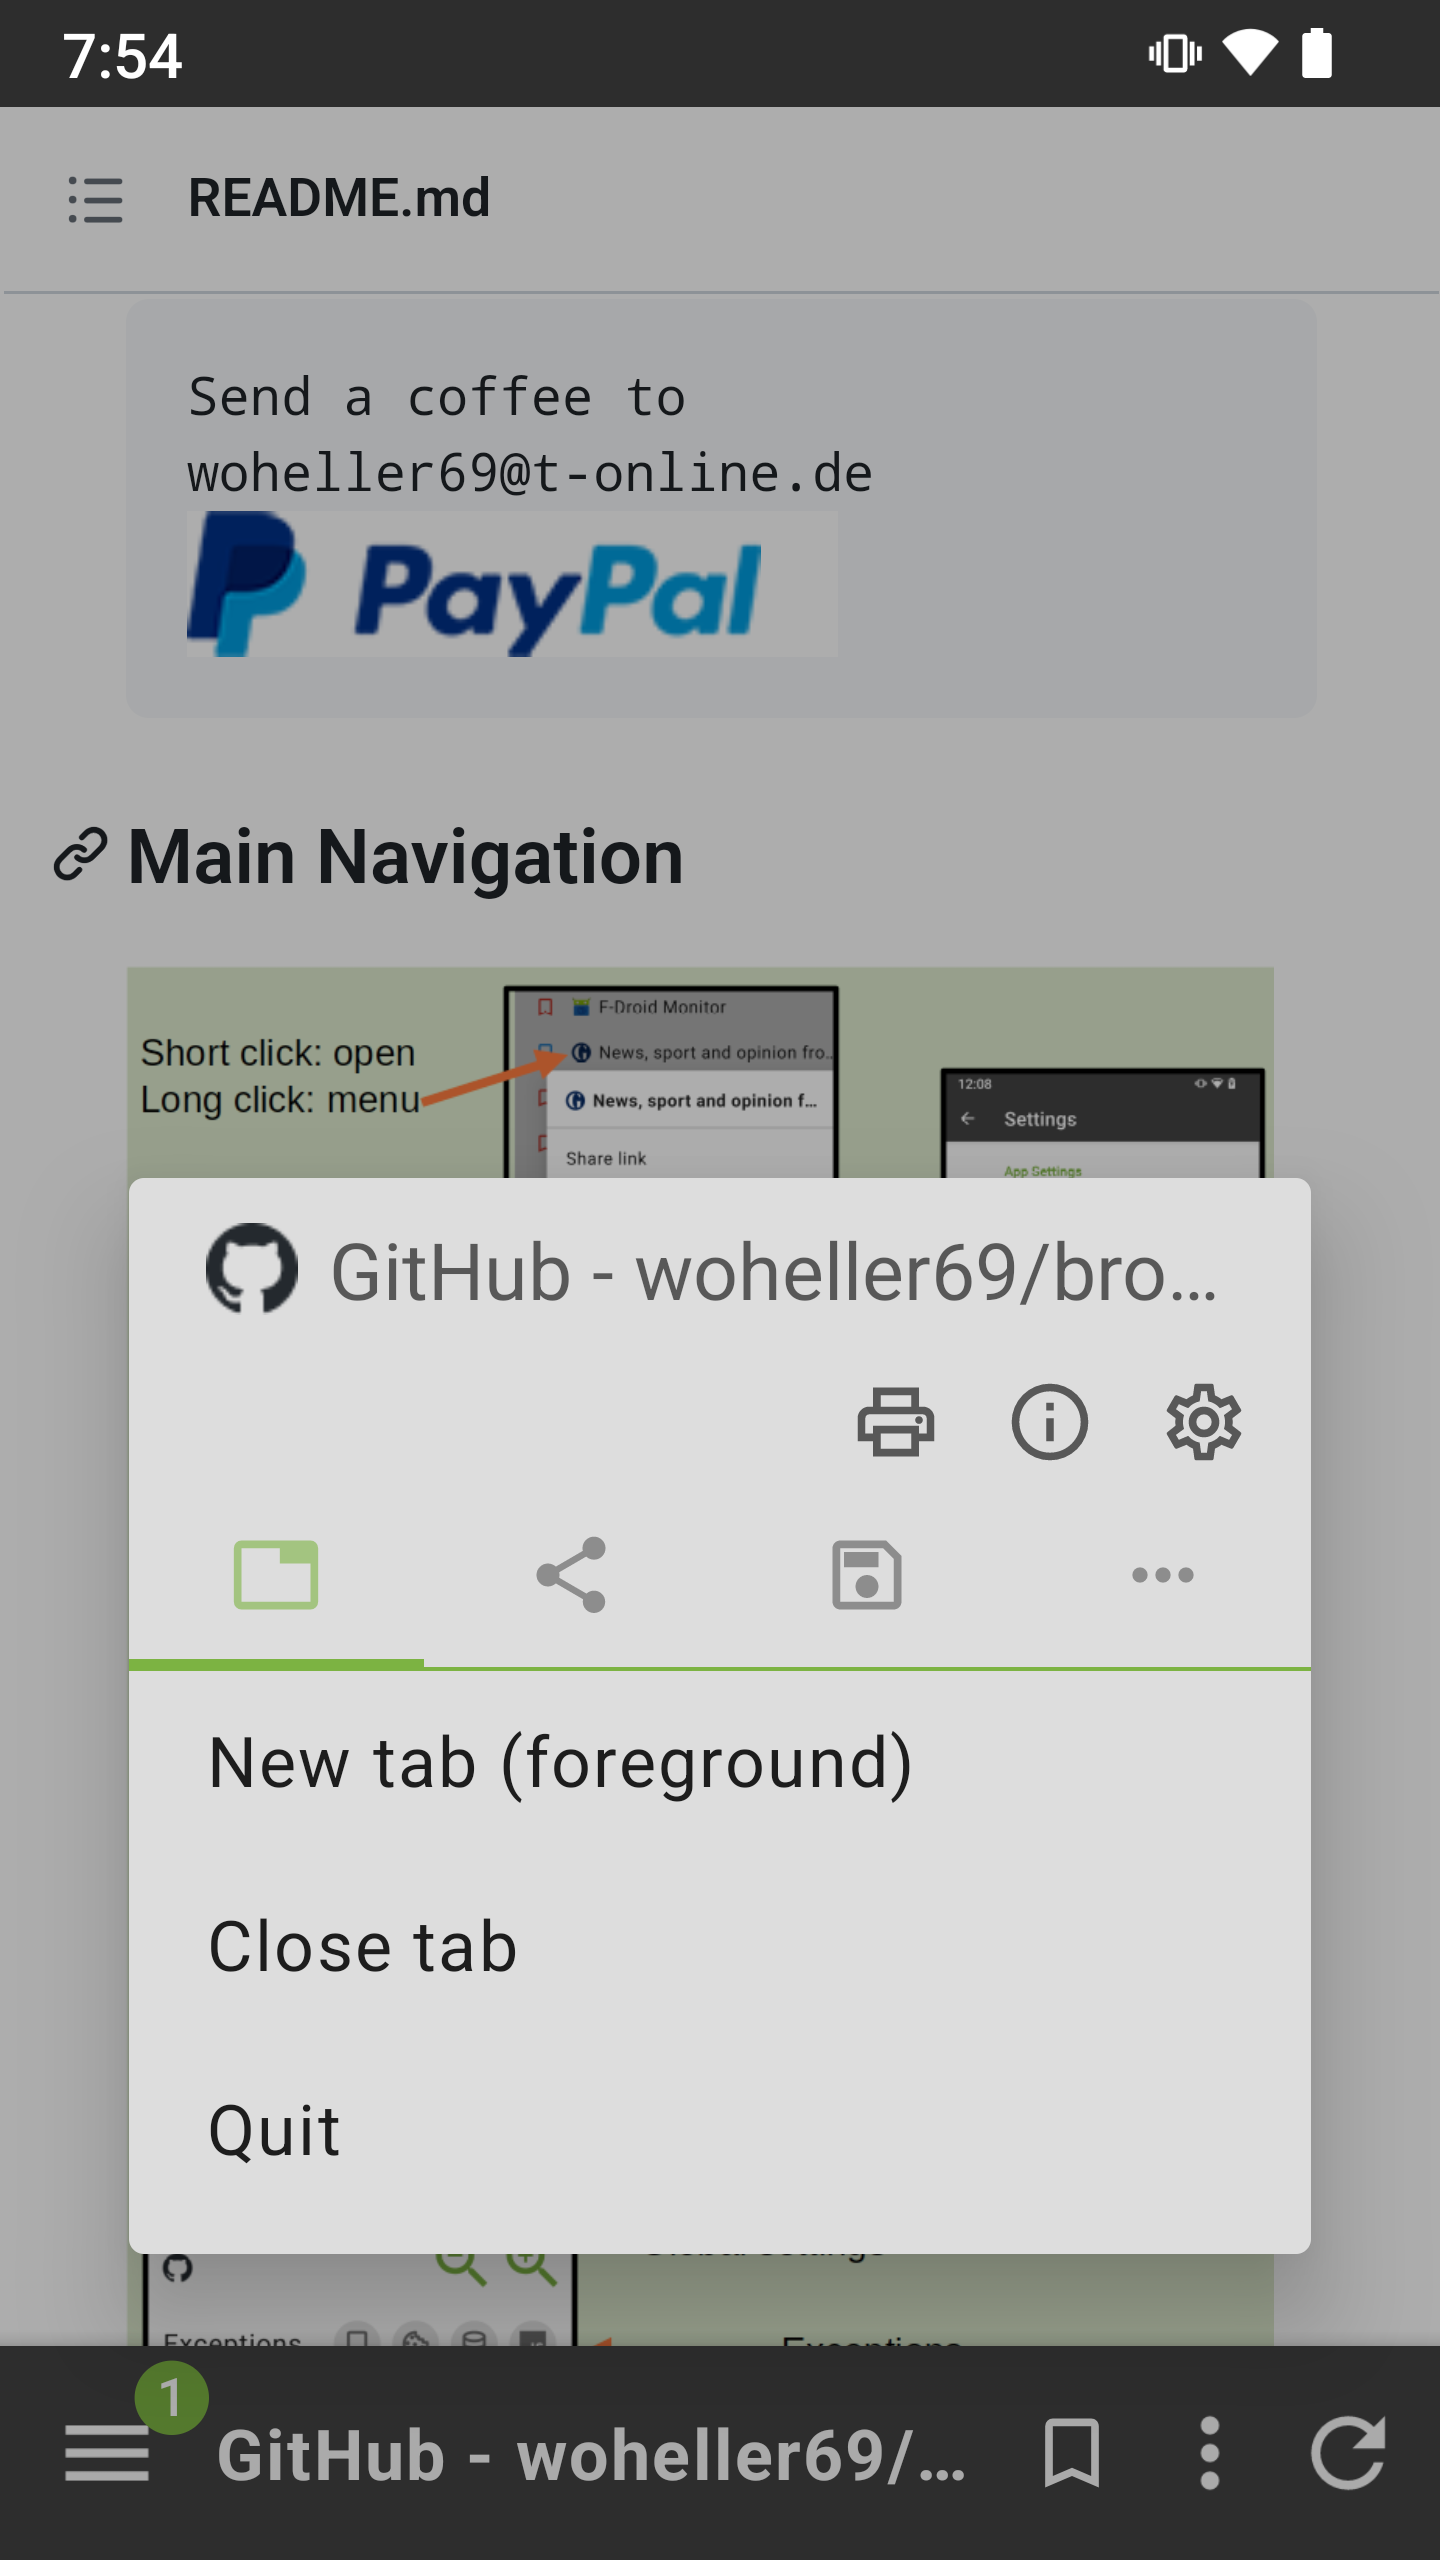
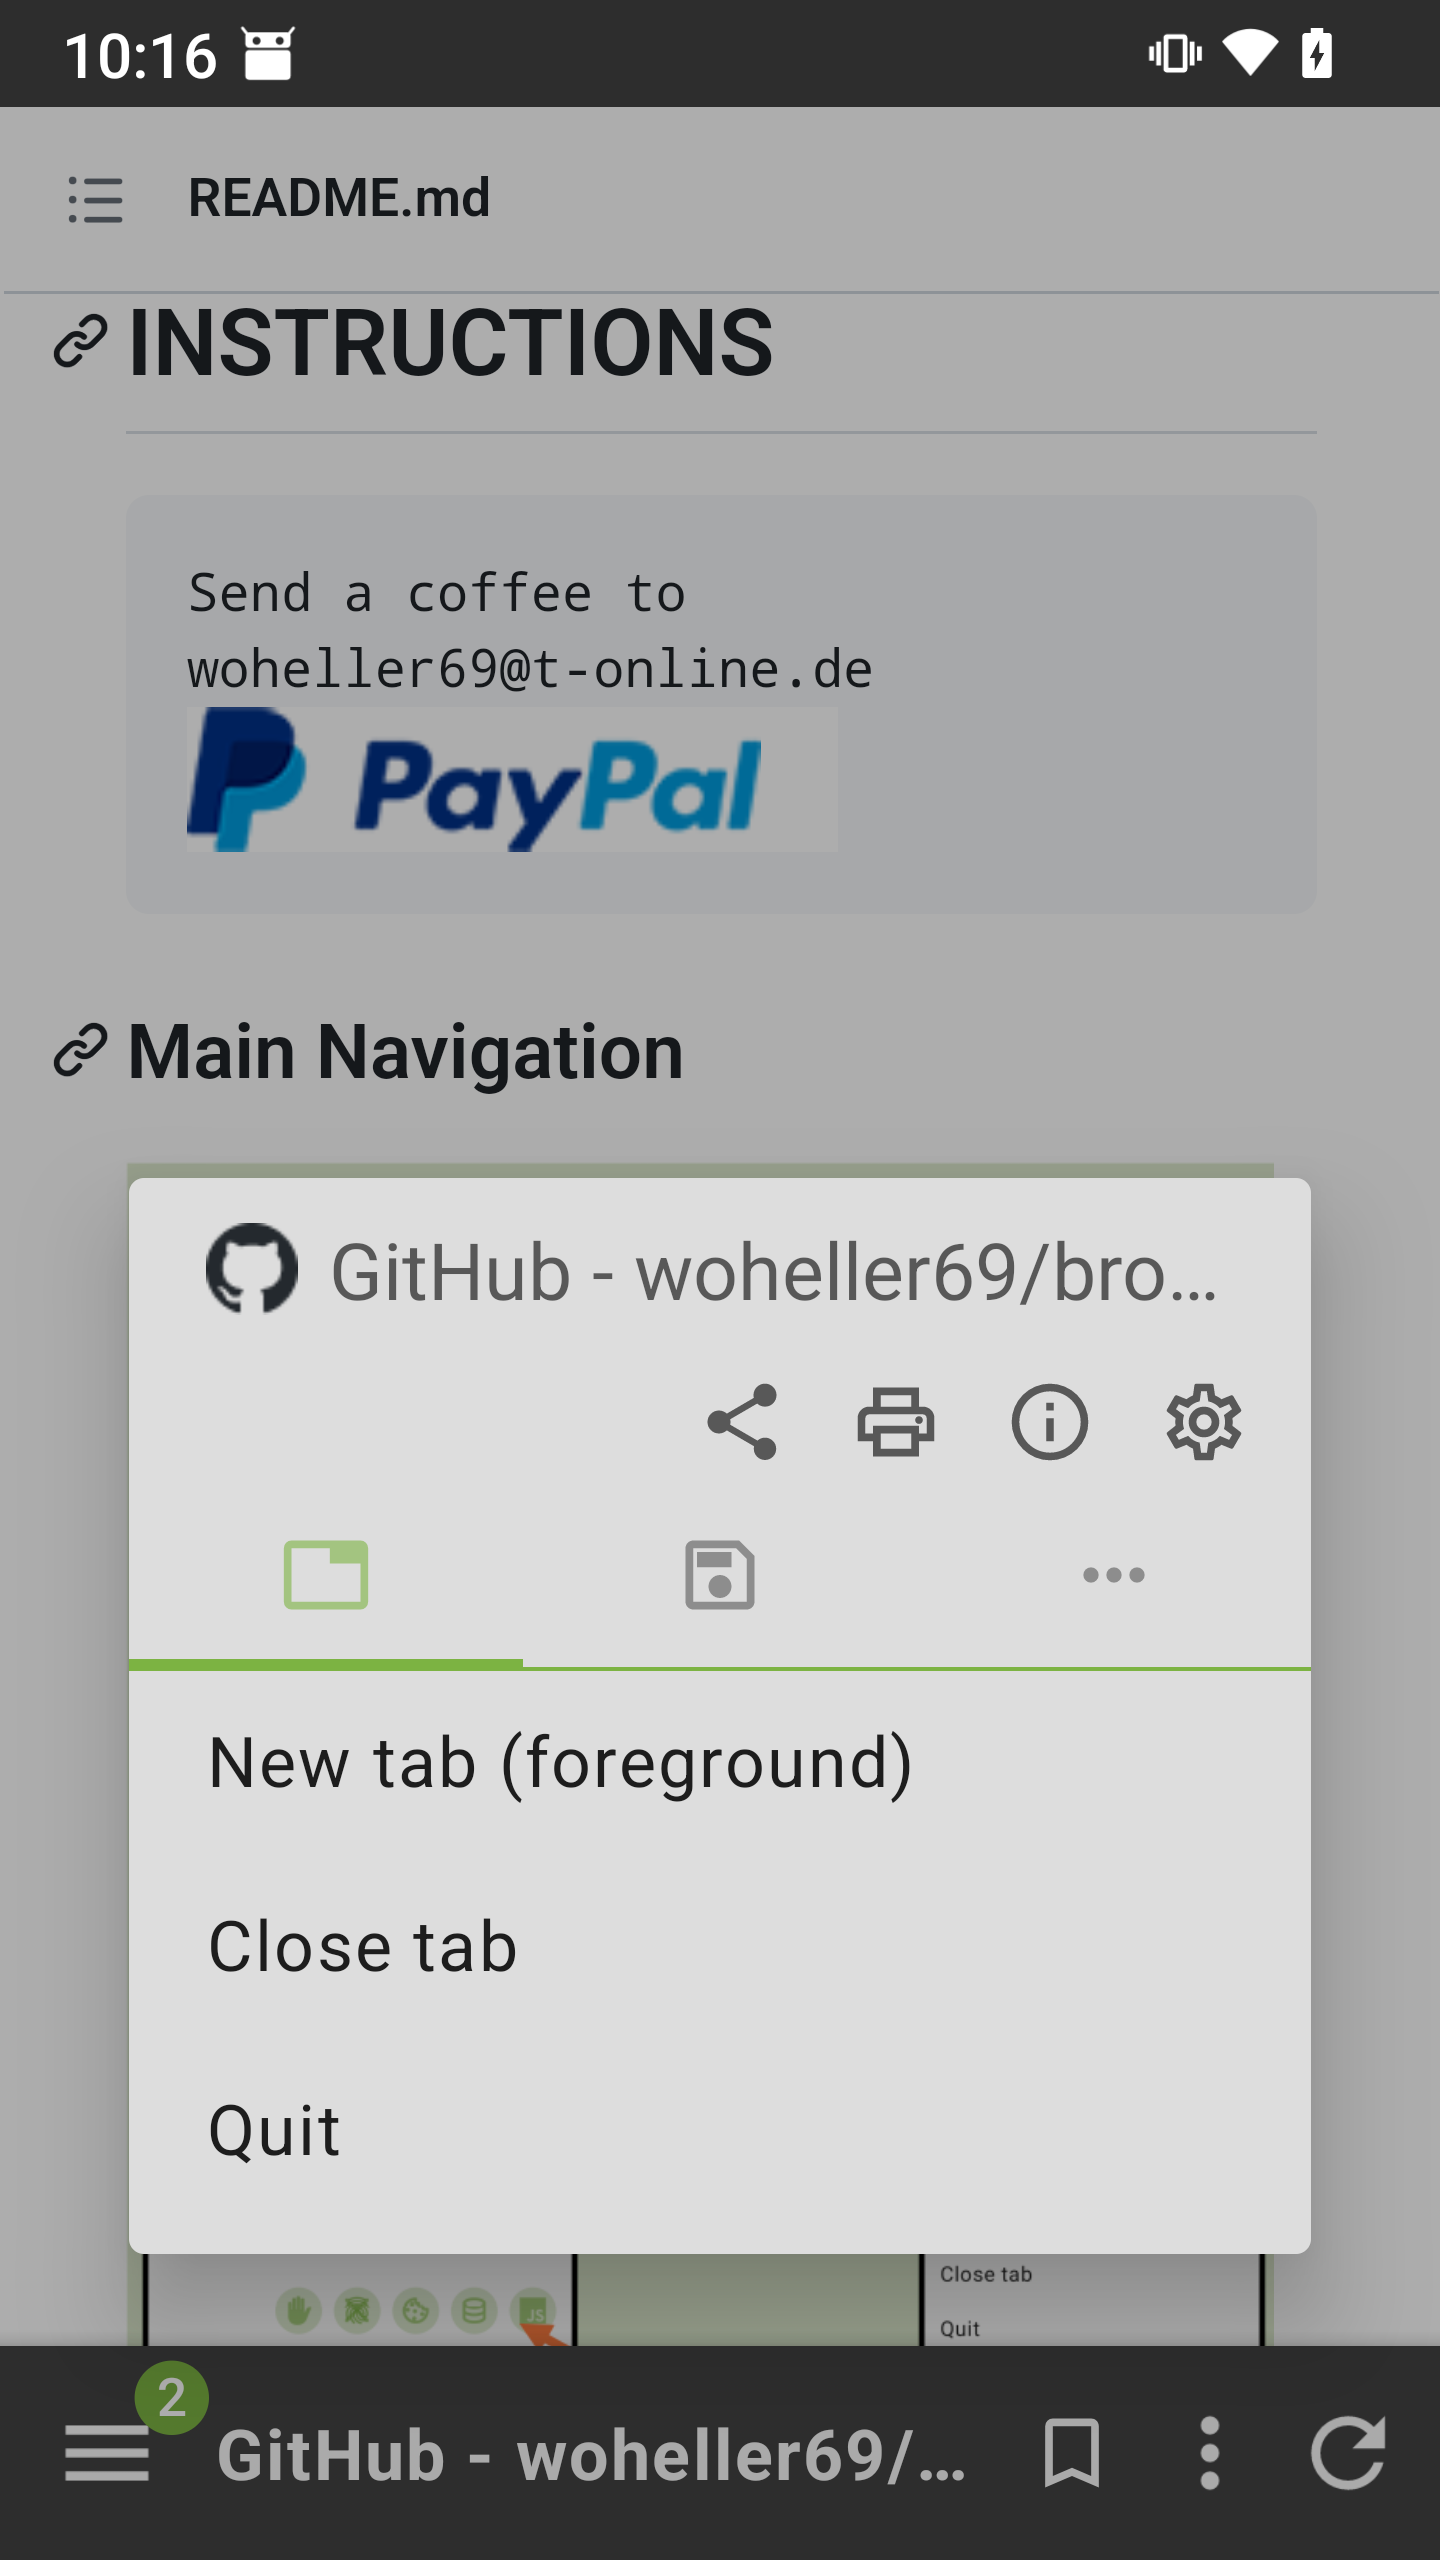
remove share menu from overflow_menu and replace with button

diff --git a/app/src/main/java/de/baumann/browser/activity/BrowserActivity.java b/app/src/main/java/de/baumann/browser/activity/BrowserActivity.java
@@ -1538,13 +1538,16 @@ public class BrowserActivity extends AppCompatActivity implements BrowserControl
             dialog_overflow.cancel();
         });
 
+        ImageButton overflow_share = dialogView.findViewById(R.id.overflow_share);
+        overflow_share.setOnClickListener(v -> {
+            shareLink(title, url);
+        });
+
         final GridView menu_grid_tab = dialogView.findViewById(R.id.overflow_tab);
-        final GridView menu_grid_share = dialogView.findViewById(R.id.overflow_share);
         final GridView menu_grid_save = dialogView.findViewById(R.id.overflow_save);
         final GridView menu_grid_other = dialogView.findViewById(R.id.overflow_other);
 
         menu_grid_tab.setVisibility(View.VISIBLE);
-        menu_grid_share.setVisibility(View.GONE);
         menu_grid_save.setVisibility(View.GONE);
         menu_grid_other.setVisibility(View.GONE);
 
@@ -1608,30 +1611,6 @@ public class BrowserActivity extends AppCompatActivity implements BrowserControl
             }
         });
 
-        // Share
-        GridItem item_11 = new GridItem(0, getString(R.string.menu_share_link),  0);
-        GridItem item_12 = new GridItem(0, getString(R.string.menu_shareClipboard),  0);
-
-        final List<GridItem> gridList_share = new LinkedList<>();
-        gridList_share.add(gridList_share.size(), item_11);
-        gridList_share.add(gridList_share.size(), item_12);
-
-        GridAdapter gridAdapter_share = new GridAdapter(context, gridList_share);
-        menu_grid_share.setAdapter(gridAdapter_share);
-        gridAdapter_share.notifyDataSetChanged();
-
-        menu_grid_share.setOnItemClickListener((parent, view12, position, id) -> {
-            dialog_overflow.cancel();
-            if (position == 0) {
-                shareLink(title, url);
-            } else if (position == 1) {
-                ClipboardManager clipboard = (ClipboardManager) getSystemService(Context.CLIPBOARD_SERVICE);
-                ClipData clip = ClipData.newPlainText("text", url);
-                Objects.requireNonNull(clipboard).setPrimaryClip(clip);
-                NinjaToast.show(this, R.string.toast_copy_successful);
-            }
-        });
-
         // Other
         GridItem item_31 = new GridItem(0, getString(R.string.menu_other_searchSite),  0);
         GridItem item_32 = new GridItem(0, getString(R.string.menu_download),  0);
@@ -1656,12 +1635,10 @@ public class BrowserActivity extends AppCompatActivity implements BrowserControl
         TabLayout tabLayout= dialogView.findViewById(R.id.tabLayout);
 
         TabLayout.Tab tab_tab = tabLayout.newTab().setIcon(R.drawable.icon_tab);
-        TabLayout.Tab tab_share = tabLayout.newTab().setIcon(R.drawable.icon_menu_share);
         TabLayout.Tab tab_save = tabLayout.newTab().setIcon(R.drawable.icon_menu_save);
         TabLayout.Tab tab_other = tabLayout.newTab().setIcon(R.drawable.icon_dots);
 
         tabLayout.addTab(tab_tab);
-        tabLayout.addTab(tab_share);
         tabLayout.addTab(tab_save);
         tabLayout.addTab(tab_other);
 
@@ -1671,22 +1648,14 @@ public class BrowserActivity extends AppCompatActivity implements BrowserControl
             public void onTabSelected(TabLayout.Tab tab) {
                 if (tab.getPosition() == 0) {
                     menu_grid_tab.setVisibility(View.VISIBLE);
-                    menu_grid_share.setVisibility(View.GONE);
                     menu_grid_save.setVisibility(View.GONE);
                     menu_grid_other.setVisibility(View.GONE);
                 } else if (tab.getPosition() == 1) {
                     menu_grid_tab.setVisibility(View.GONE);
-                    menu_grid_share.setVisibility(View.VISIBLE);
-                    menu_grid_save.setVisibility(View.GONE);
+                    menu_grid_save.setVisibility(View.VISIBLE);
                     menu_grid_other.setVisibility(View.GONE);
                 } else if (tab.getPosition() == 2) {
                     menu_grid_tab.setVisibility(View.GONE);
-                    menu_grid_share.setVisibility(View.GONE);
-                    menu_grid_save.setVisibility(View.VISIBLE);
-                    menu_grid_other.setVisibility(View.GONE);
-                } else if (tab.getPosition() == 3) {
-                    menu_grid_tab.setVisibility(View.GONE);
-                    menu_grid_share.setVisibility(View.GONE);
                     menu_grid_save.setVisibility(View.GONE);
                     menu_grid_other.setVisibility(View.VISIBLE);
                 }
